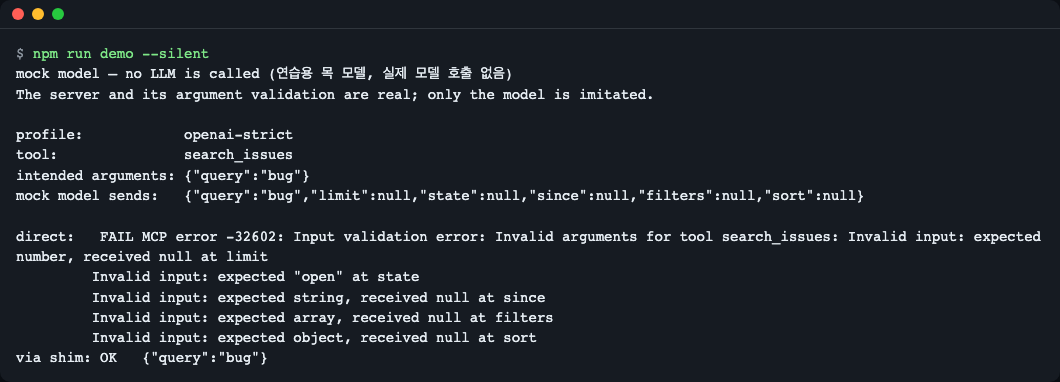
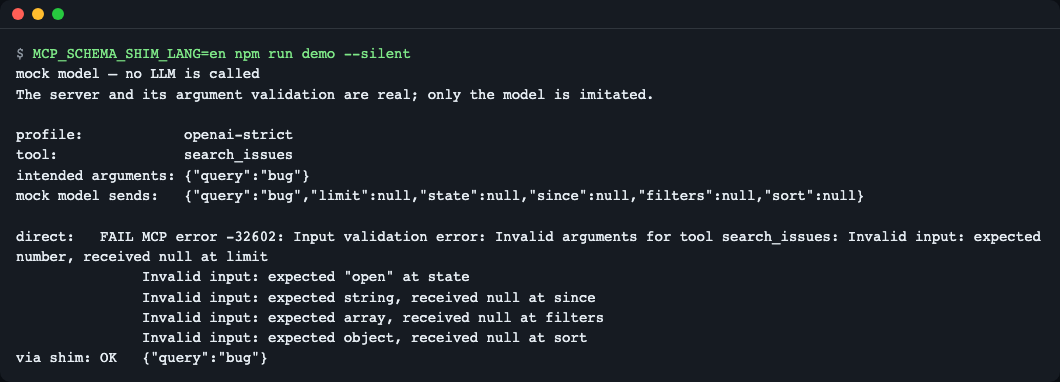
docs(readme): document screen language and add Korean screenshots
Add the language selection section, per-language screenshots and
Korean confirmation texts that match the real --lang ko output.

Changed region(s): [[0.0934, 0.6911, 0.5604, 0.9215], [0.0311, 0.1152, 0.4981, 0.2304]]

diff --git a/README.ko.md b/README.ko.md
@@ -4,7 +4,7 @@
 
 MCP 서버의 도구 정의(JSON Schema)를 모델 제공자(Gemini·OpenAI strict·Anthropic strict)가 받아 주는 모양으로 고쳐 주고, 모델이 고친 스키마대로 보낸 인자를 **원래 서버가 받는 모양으로 되돌려 주는** 도구입니다.
 
-![30초 체험 결과: 직결은 실패, shim 경유는 성공](docs/images/01-demo.png)
+![30초 체험 결과: 직결은 실패, shim 경유는 성공](docs/images/01-demo.ko.png)
 *연습용 목 모델이 만든 인자를 서버에 직접 보내면 `-32602` 로 거부되고, shim 을 거치면 통과한다.*
 
 ## 이런 분께
@@ -27,7 +27,7 @@ MCP 서버의 도구 정의(JSON Schema)를 모델 제공자(Gemini·OpenAI stri
 | `op` | 지도 항목의 종류(`nullable-optional`, `enum-stringified`, `name-mapped` 등). 아래 표 참고. |
 | `lossy` | 변환 때 정보가 사라졌다는 표시. 사라진 제약은 마지막 원래 스키마 검증이 대신 지킵니다. |
 | 인자 복원(restore) | 모델이 변환된 스키마대로 보낸 인자를 원래 스키마 모양으로 되돌리고 검증하는 단계. |
-| `fixable` | 이 도구가 자동으로 고칠 수 있는 진단. `NOT fixable` 은 스키마를 직접 바꿔야 합니다. |
+| 수정 가능 (`fixable`) | 이 도구가 자동으로 고칠 수 있는 진단. 한국어 화면의 `수정 불가`(JSON·로그의 `NOT fixable`)는 스키마를 직접 바꿔야 합니다. |
 
 ## 설치
 전제: Node.js 20 이상(개발·테스트는 22.12 이상). 없으면 `brew install node` 또는 [nodejs.org](https://nodejs.org) 에서 설치합니다.
@@ -44,11 +44,11 @@ npm 레지스트리에는 아직 게시하지 않았습니다. 그래서 아래 
 ```bash
 npm run demo
 ```
-![npm run demo 실행 화면](docs/images/01-demo.png)
-*`npm run demo` 의 실제 출력.*
+![npm run demo 실행 화면(한국어)](docs/images/01-demo.ko.png)
+*`npm run demo` 의 실제 출력(한국어 화면, `MCP_SCHEMA_SHIM_LANG=ko`). 언어를 정하지 않고 한국어가 아닌 환경에서 실행하면 영어로 나옵니다.*
 
-- 첫 줄 `mock model — no LLM is called` : **연습용 목(mock) 모델**입니다. 실제 모델·API 키·네트워크를 쓰지 않고, OpenAI strict 모드의 모델이 보낼 법한 인자(`limit: null` 등)를 흉내 내 만듭니다.
-- 진짜인 것: 예제 MCP 서버와 서버의 인자 검증. 그래서 `direct: FAIL ... received null` 은 실제 서버가 낸 오류입니다.
+- 첫 줄 `연습용 목 모델 — 실제 모델 호출 없음`(영어 화면에서는 `mock model — no LLM is called`) : **연습용 목(mock) 모델**입니다. 실제 모델·API 키·네트워크를 쓰지 않고, OpenAI strict 모드의 모델이 보낼 법한 인자(`limit: null` 등)를 흉내 내 만듭니다.
+- 진짜인 것: 예제 MCP 서버와 서버의 인자 검증. 그래서 `직결: 실패 ... received null` 은 실제 서버가 낸 오류입니다. 이 오류 문장은 서버가 영어로 낸 그대로입니다.
 - 실제 모델과 다른 점: 모델이 어떤 인자를 고를지는 흉내일 뿐이며, 제공자 API 가 스키마를 받아 주는지는 호출하지 않았으므로 확인하지 않습니다.
 
 ## 사용법
@@ -60,7 +60,7 @@ npm run demo
 | `proxy --profile <id> -- <서버 명령>` | stdio MCP 서버 앞에 끼우는 프록시 | `node dist/cli.js proxy --profile gemini-parameters -- node examples/server-v1.mjs` |
 | `simulate --profile <id> [--tool n] [--args json] -- <서버 명령>` | 목 모델로 직결 vs shim 경유 비교 | `npm run demo` |
 
-0.3.0 부터 큰 서버는 `anthropic-strict` 에서 `check` 가 exit 1 로 실패할 수 있습니다. 도구가 20개를 넘거나(`anthropic-strict/limit-tools`) 선택 파라미터가 전체 24개를 넘으면(`anthropic-strict/limit-optional`) API 가 거부하므로, `(all tools)` 오류로 보고되며 `fix` 로 고칠 수 없습니다. 메시지 원문 예: `21 strict tools in one request (limit 20)` (요청 하나에 strict 도구 21개, 한도 20), `25 optional parameters across all strict tool schemas (limit 24)` (모든 strict 도구 스키마의 선택 파라미터 25개, 한도 24).
+0.3.0 부터 큰 서버는 `anthropic-strict` 에서 `check` 가 exit 1 로 실패할 수 있습니다. 도구가 20개를 넘거나(`anthropic-strict/limit-tools`) 선택 파라미터가 전체 24개를 넘으면(`anthropic-strict/limit-optional`) API 가 거부하므로, `(all tools)` 오류로 보고되며 `fix` 로 고칠 수 없습니다. 메시지 원문 예(영어 화면·JSON 기준): `21 strict tools in one request (limit 20)` (요청 하나에 strict 도구 21개, 한도 20), `25 optional parameters across all strict tool schemas (limit 24)` (모든 strict 도구 스키마의 선택 파라미터 25개, 한도 24).
 
 종료 코드: `0` 정상, `1` 오류 등급 진단(check) 또는 못 고치는 오류(fix), `2` 입력·사용법 오류(서버 명령을 줄 때는 서버 기동 실패·타임아웃·오류 응답도 2). `simulate` 는 비교 결과(`via shim: FAIL` 포함)와 무관하게 `0`, 입력 오류만 `2` 입니다. 입력 파일은 `{"tools":[…]}`(`tools/list` 결과) 또는 도구 배열(파일 모드)이고, 서버 모드에서는 `--` 뒤에 stdio 서버 명령을 줍니다.
 
@@ -68,23 +68,23 @@ npm run demo
 
 ### 1) 검사하기 — 무엇이 거부되나
 ```bash
-node dist/cli.js check examples/tools.json --profile openai-strict
+node dist/cli.js check examples/tools.json --profile openai-strict --lang ko
 ```
-![openai-strict 진단표](docs/images/02-check-openai.png)
+![openai-strict 진단표(한국어)](docs/images/02-check-openai.ko.png)
 *규칙 ID, 도구 이름, JSON 포인터(`/properties/limit`), 자동 수정 가능 여부, 공식 문서 URL 이 한 줄씩 나온다. 이 예는 10 오류·1 경고라서 exit 1.*
 
-읽는 법: `fixable` 이면 `fix`/프록시가 고칠 수 있다는 뜻입니다. `NOT fixable` 은 사람이 스키마를 바꿔야 합니다. `--all --format markdown` 으로 모든 프로필 결과를 표로 받아 CI 에 붙일 수 있습니다(예제 도구 기준 합계 `22 error(s), 5 warning(s), 2 info`).
+읽는 법: 마지막 열이 `수정 가능` 이면 `fix`/프록시가 고칠 수 있다는 뜻입니다. `수정 불가` 는 사람이 스키마를 바꿔야 합니다. `--all --format markdown` 으로 모든 프로필 결과를 표로 받아 CI 에 붙일 수 있습니다(예제 도구 기준 합계 `오류 22개, 경고 5개, 정보 2개`).
 
 파일 대신 서버를 직접 검사할 수도 있습니다. `--` 뒤에 서버 시작 명령을 주면 `check` 가 서버를 띄워 `tools/list` 를 모든 페이지 읽고, 서버를 종료한 뒤 같은 표를 출력합니다.
 ```bash
-node dist/cli.js check --profile openai-strict -- node examples/server-v1.mjs
+node dist/cli.js check --profile openai-strict --lang ko -- node examples/server-v1.mjs
 npx mcp-schema-shim check --all --format markdown -- node build/server.js
 ```
-![서버 명령에 직접 실행한 check](docs/images/07-check-server.png)
+![서버 명령에 직접 실행한 check(한국어)](docs/images/07-check-server.ko.png)
 *`check` 가 예제 서버를 띄워 도구 목록을 읽고 같은 표를 출력했습니다(오류가 있어 exit 1).*
 
-![한 요청에 도구 21개: limit-tools 오류, exit 1](docs/images/08-check-limit-tools.png)
-*도구 21개는 개별 규칙을 모두 통과하지만, `check` 는 `anthropic-strict/limit-tools`(요청당 한도 20)를 보고하고 exit 1 로 끝납니다. 메시지는 영어 원문입니다.*
+![한 요청에 도구 21개: limit-tools 오류, exit 1(한국어)](docs/images/08-check-limit-tools.ko.png)
+*도구 21개는 개별 규칙을 모두 통과하지만, `check` 는 `anthropic-strict/limit-tools`(요청당 한도 20)를 보고하고 exit 1 로 끝납니다. 한국어 화면은 규칙별 한 줄 요약을 보여 주고, `--format json` 의 메시지는 영어 원문입니다.*
 
 CI 에서는 한 줄이면 됩니다: `npx mcp-schema-shim check --profile openai-strict -- node build/server.js`(exit 1 이면 단계가 실패). 서버 자체의 로그는 stderr 로 나가므로 stdout 의 `--format json` 은 깨지지 않습니다.
 
@@ -97,23 +97,23 @@ node dist/cli.js fix examples/tools.json --profile openai-strict --map map.json 
 
 ### 3) 이름 변환과 원래 스키마 재검증
 ```bash
-node dist/cli.js simulate --profile anthropic-strict --tool issues.search -- node examples/server-v1.mjs
+node dist/cli.js simulate --profile anthropic-strict --tool issues.search --lang ko -- node examples/server-v1.mjs
 ```
-![도구 이름 변환 결과](docs/images/04-simulate-rename.png)
+![도구 이름 변환 결과(한국어)](docs/images/04-simulate-rename.ko.png)
 *`issues.search` 는 모델에게 `issues_search` 로 보이고(Anthropic 이름 규칙), 서버에는 원래 이름으로 전달된다. 이 화면은 `--args '{"query":""}'` 를 준 실행이라 원래 스키마 위반 이유(`/query`)도 보인다.*
 
 `--args` 로 원래 스키마(`minLength: 1`)를 어기는 인자를 주면, shim 은 서버에 보내지 않고 `/query` 가 왜 틀렸는지를 돌려줍니다. 설명으로 옮긴 제약(`minLength` 등)은 이 마지막 검증이 지킵니다.
 
 ```bash
-node dist/cli.js simulate --profile anthropic-strict --tool issues.search --args '{"query":""}' -- node examples/server-v1.mjs
+node dist/cli.js simulate --profile anthropic-strict --tool issues.search --args '{"query":""}' --lang ko -- node examples/server-v1.mjs
 ```
 ```
-direct:   FAIL MCP error -32602: Tool issues_search not found
-via shim: FAIL mcp-schema-shim: Arguments for tool "issues.search" do not match its original input schema:
-         - /query: must NOT have fewer than 1 characters (minLength)
-         Fix the arguments and call the tool again.
+직결:     실패 MCP error -32602: Tool issues_search not found
+shim 경유: 실패 mcp-schema-shim: Arguments for tool "issues.search" do not match its original input schema:
+                - /query: must NOT have fewer than 1 characters (minLength)
+                Fix the arguments and call the tool again.
 ```
-(위는 출력 중 마지막 두 단락만 옮긴 것입니다. `direct` 는 서버에 변환된 이름 `issues_search` 로 직접 보냈기 때문에 실패합니다.)
+(위는 출력 중 마지막 두 단락만 옮긴 것입니다. `직결` 은 서버에 변환된 이름 `issues_search` 로 직접 보냈기 때문에 실패합니다.)
 
 ### 4) 클라이언트에 끼우기
 MCP 클라이언트 설정에서 서버 항목의 `command` 를 shim 으로 감쌉니다(경로는 본인 clone 위치로):
@@ -173,7 +173,25 @@ node examples/library.mjs
 | 타입 | 타입 | `ProfileId`, `JsonSchema`, `McpTool`, `Severity`, `Diagnostic`, `MapOp`, `MapEntry`, `ToolMap`, `ShimMap`, `TransformOptions`, `TransformResult`, `TransformToolResult`, `RestoreIssue`, `ProfileInfo`, `RuleDef` |
 
 ## 설정
-설정 파일·환경변수·API 키는 없습니다. 동작은 `--profile` 과 위 옵션으로만 정해집니다. 서버 명령을 줄 때 `--timeout <ms>`(기본 `10000`)는 `check` 가 응답마다 기다리는 시간이며, 파일 모드에서 주면 오류입니다. 규칙 전체 목록(규칙마다 공식 문서 URL·확인 날짜)은 [docs/rules.md](docs/rules.md) 에 있습니다.
+설정 파일·API 키는 없습니다. 환경변수는 화면 언어를 고르는 용도뿐입니다(아래 참고). 동작은 `--profile` 과 위 옵션으로 정해집니다. 서버 명령을 줄 때 `--timeout <ms>`(기본 `10000`)는 `check` 가 응답마다 기다리는 시간이며, 파일 모드에서 주면 오류입니다. 규칙 전체 목록(규칙마다 공식 문서 URL·확인 날짜)은 [docs/rules.md](docs/rules.md) 에 있습니다.
+
+### 화면 언어 바꾸기 (영어 / 한국어)
+CLI 는 도움말·보고서·오류·`simulate` 출력을 영어 또는 한국어로 보여 줍니다. 아래 순서로 정하며, 먼저 설정된 것이 이깁니다.
+
+1. `--lang en|ko` (다른 값을 주면 오류 한 줄과 함께 종료 코드 2)
+2. 환경변수 `MCP_SCHEMA_SHIM_LANG`
+3. `LC_ALL`, 그다음 `LC_MESSAGES`, 그다음 `LANG` (`ko_KR.UTF-8` 처럼 `ko` 로 시작하면 한국어)
+4. 그 밖에는 영어
+
+```bash
+node dist/cli.js check examples/tools.json --profile openai-strict --lang ko
+MCP_SCHEMA_SHIM_LANG=ko node dist/cli.js simulate --profile openai-strict -- node examples/server-v1.mjs
+LANG=ko_KR.UTF-8 node dist/cli.js check examples/tools.json --profile openai-strict
+```
+
+`simulate` 에서 한국어가 되는 것은 배너·머리말(`직결`, `shim 경유`, `성공`/`실패`)뿐입니다. 서버와 proxy 가 돌려주는 MCP 도구 결과 본문(모델이 읽는 응답, 위 예의 `MCP error ...`·`Arguments for tool ...`)은 두 언어 모두 영어 그대로입니다. `--format json` 출력·규칙 ID·종료 코드는 두 언어에서 똑같아서 스크립트에는 영향이 없습니다. 한국어에서는 text·markdown 보고서의 각 진단 설명이 규칙별 한국어 한 줄 요약으로 나오고, JSON 의 진단 문장과 proxy 로그 줄은 영어로 남습니다.
+
+`MCP_SCHEMA_SHIM_LANG` 에 `en`/`ko` 가 아닌 값(예: `xx`)을 주면 경고 없이 무시되고 영어로 나옵니다. 잘못된 값을 오류로 막는 것은 `--lang` 뿐입니다.
 
 ## 프로필과 규칙
 프로필은 "어느 제공자의 어느 경로로 보낼 것인가"입니다. `--profile` 로 고릅니다.
@@ -228,6 +246,7 @@ src/
   transform.ts  도구 변환 + 변환 지도 만들기, 이름 충돌 처리
   restore.ts  지도로 인자 되돌리기 + 원래 스키마(ajv)로 검증
   proxy/      stdio JSON-RPC 프록시(proxy.ts, jsonrpc.ts)
+  i18n.ts      영어·한국어 화면 문구 전부와 언어 선택(--lang, MCP_SCHEMA_SHIM_LANG, LANG)
   simulate.ts  목 모델로 직결과 경유 비교(sample.ts 가 인자 생성)
   rpc-client.ts  stdio JSON-RPC 클라이언트: 서버를 띄우고 check 용으로 tools/list 모든 페이지를 읽으며 자식 프로세스를 항상 종료(simulate, check)
   cli.ts      check·fix·proxy·simulate 명령
@@ -253,8 +272,8 @@ src/
 - 스키마 검사·변환만 필요하다면 [tool-schema](https://github.com/slegarraga/tool-schema) 도 살펴보세요.
 
 ## 직접 바꿔 보기
-1. **프로필 바꾸기** — 바꿀 곳: `check` 의 `--profile` 을 `gemini-json-schema` 로. 예상: 오류·경고 없이 `minLength` 무시 안내(info) 2건만 나오고 종료 코드가 0 입니다. 확인: 표의 마지막 줄 `0 error(s), 0 warning(s), 2 info`.
-2. **예제 도구 수정** — 바꿀 곳: `examples/tools.json` 의 `limit` 두 곳에 `"multipleOf": 5` 를 추가. 예상: `check examples/tools.json --profile anthropic-strict` 의 마지막 줄이 `8 error(s)` 에서 `10 error(s)` 로 늘고(`unsupported-constraint`), `fix --map` 지도에 `constraint-to-description` 항목이 생깁니다. 확인: 표의 마지막 줄과 `map.json`.
+1. **프로필 바꾸기** — 바꿀 곳: `check` 의 `--profile` 을 `gemini-json-schema` 로. 예상: 오류·경고 없이 `minLength` 무시 안내(info) 2건만 나오고 종료 코드가 0 입니다. 확인: 표의 마지막 줄 `오류 0개, 경고 0개, 정보 2개`(`--lang en` 이면 `0 error(s), 0 warning(s), 2 info`).
+2. **예제 도구 수정** — 바꿀 곳: `examples/tools.json` 의 `limit` 두 곳에 `"multipleOf": 5` 를 추가. 예상: `check examples/tools.json --profile anthropic-strict` 의 마지막 줄이 `오류 8개` 에서 `오류 10개` 로 늘고(`--lang en` 이면 `8 error(s)` → `10 error(s)`)(`unsupported-constraint`), `fix --map` 지도에 `constraint-to-description` 항목이 생깁니다. 확인: 표의 마지막 줄과 `map.json`.
 3. **복원 시험** — 바꿀 곳: `node dist/cli.js simulate --profile openai-strict --tool search_issues --args '{"query":"x","limit":0}' -- node examples/server-v1.mjs` 처럼 `limit` 을 0 으로. 예상: `limit` 은 원래 스키마에서 `minimum: 1` 이라서 `via shim: FAIL` 과 `/limit: must be >= 1 (minimum)` 이 나옵니다. 확인: 출력 마지막 세 줄.
 
 ## 자주 겪는 문제
@@ -264,7 +283,7 @@ src/
 | `Could not start the server command ...` (exit 2, 서버 명령을 시작하지 못함) | `--` 뒤 명령이 없거나 실행할 수 없음 | 같은 명령을 직접 실행해 보고, `check` 를 실행하는 위치 기준 경로를 쓰세요 |
 | `The server did not answer ... within ... ms` (exit 2, 서버가 제한 시간 안에 응답하지 않음) | 서버 시작이 느리거나 stdout 으로 MCP 를 말하지 않음 | `--timeout` 을 늘리고, 로그는 stdout 이 아니라 stderr 로 내보내세요 |
 | `The server exited (code N) before tools/list finished` (exit 2, `tools/list` 가 끝나기 전에 서버가 종료됨) | 서버가 바로 죽음(스크립트 경로 오타, 서버 자체 오류) | 바로 위 stderr 를 읽고, 같은 명령을 직접 실행해 경로를 확인하세요 |
-| `fix` 가 exit 1 | 못 고치는 오류(재귀 `$ref`, 자유형 객체) 존재 | `check` 표의 `NOT fixable` 줄을 보고 스키마 수정 또는 다른 프로필 선택. exit 1 이어도 `fix` 는 `-o`·`--map` 파일을 씁니다 |
+| `fix` 가 exit 1 | 못 고치는 오류(재귀 `$ref`, 자유형 객체) 존재 | `check` 표의 `수정 불가`(영어 화면은 `NOT fixable`) 줄을 보고 스키마 수정 또는 다른 프로필 선택. exit 1 이어도 `fix` 는 `-o`·`--map` 파일을 씁니다 |
 | `npm test` 가 버전 오류 | vitest 가 Node 22.12 이상 요구 | Node 업데이트(런타임만 쓰면 20 이상) |
 | `npm run demo` 의 직결이 항상 FAIL | 의도된 결과 | 직결 실패를 보여 주는 장면입니다 |
 

diff --git a/README.md b/README.md
@@ -110,8 +110,8 @@ node dist/cli.js simulate --profile anthropic-strict --tool issues.search --args
 ```
 direct:   FAIL MCP error -32602: Tool issues_search not found
 via shim: FAIL mcp-schema-shim: Arguments for tool "issues.search" do not match its original input schema:
-         - /query: must NOT have fewer than 1 characters (minLength)
-         Fix the arguments and call the tool again.
+               - /query: must NOT have fewer than 1 characters (minLength)
+               Fix the arguments and call the tool again.
 ```
 (The above is only the last two paragraphs of the output. `direct` fails because it sent the converted name `issues_search` straight to the server.)
 
@@ -175,7 +175,25 @@ Public API (everything exported from `src/index.ts`):
 | Types | types | `ProfileId`, `JsonSchema`, `McpTool`, `Severity`, `Diagnostic`, `MapOp`, `MapEntry`, `ToolMap`, `ShimMap`, `TransformOptions`, `TransformResult`, `TransformToolResult`, `RestoreIssue`, `ProfileInfo`, `RuleDef` |
 
 ## Configuration
-There are no configuration files, environment variables or API keys. Behavior is set only by `--profile` and the options above. With a server command, `--timeout <ms>` (default `10000`) is how long `check` waits for each answer; it is an error in file mode. The full rule list (with an official documentation URL and check date for each rule) is in [docs/rules.md](docs/rules.md).
+There are no configuration files or API keys. The only environment variables choose the screen language (see below). Behavior is set by `--profile` and the options above. With a server command, `--timeout <ms>` (default `10000`) is how long `check` waits for each answer; it is an error in file mode. The full rule list (with an official documentation URL and check date for each rule) is in [docs/rules.md](docs/rules.md).
+
+### Screen language (English / Korean)
+The CLI shows its help, reports, errors and `simulate` output in English or Korean. The language is picked in this order, and the first one that is set wins:
+
+1. `--lang en|ko` (any other value exits 2 with one error line)
+2. the `MCP_SCHEMA_SHIM_LANG` environment variable
+3. `LC_ALL`, then `LC_MESSAGES`, then `LANG` (a value starting with `ko`, such as `ko_KR.UTF-8`, means Korean)
+4. otherwise English
+
+```bash
+node dist/cli.js check examples/tools.json --profile openai-strict --lang ko
+MCP_SCHEMA_SHIM_LANG=ko node dist/cli.js simulate --profile openai-strict -- node examples/server-v1.mjs
+LANG=ko_KR.UTF-8 node dist/cli.js check examples/tools.json --profile openai-strict
+```
+
+`--format json` output, rule IDs and exit codes are the same in both languages, so scripts are not affected. In `simulate`, only the banner and labels (`direct`, `via shim`, `FAIL`/`OK`) change language; the MCP tool-result text returned by the server and the proxy (the response a model reads, such as `MCP error ...` and `Arguments for tool ...`) stays English in both languages. In Korean, each finding in the text and markdown reports is described by a Korean one-line summary per rule; the diagnostic text in JSON and the proxy log lines stay English.
+
+An unrecognized `MCP_SCHEMA_SHIM_LANG` value (anything other than `en`/`ko`, for example `xx`) is ignored without a warning and the CLI shows English; only `--lang` rejects bad values.
 
 ## Profiles and rules
 A profile is "which provider, through which path, you will send to". Pick it with `--profile`.
@@ -230,6 +248,7 @@ src/
   transform.ts  converts tools + builds the conversion map, handles name collisions
   restore.ts  restores arguments using the map + validates with the original schema (ajv)
   proxy/      stdio JSON-RPC proxy (proxy.ts, jsonrpc.ts)
+  i18n.ts      every screen message in English and Korean, and the language choice (--lang, MCP_SCHEMA_SHIM_LANG, LANG)
   simulate.ts  compares direct and via-shim with a mock model (sample.ts generates arguments)
   rpc-client.ts  stdio JSON-RPC client: starts a server, reads every tools/list page for check, always stops the child (simulate, check)
   cli.ts      the check, fix, proxy and simulate commands
